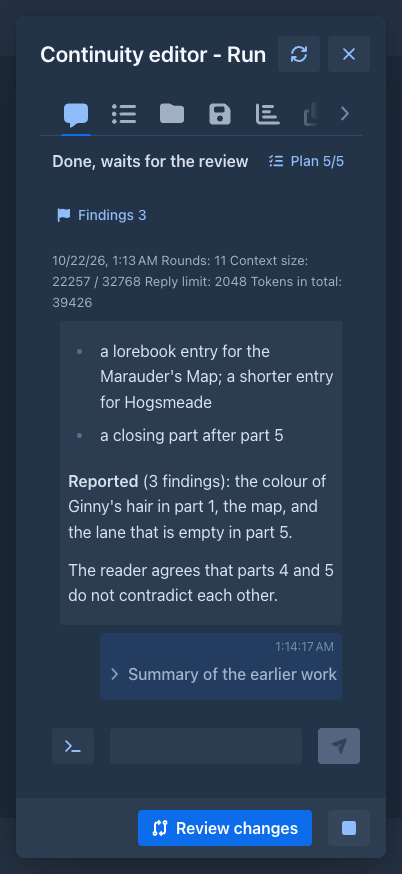
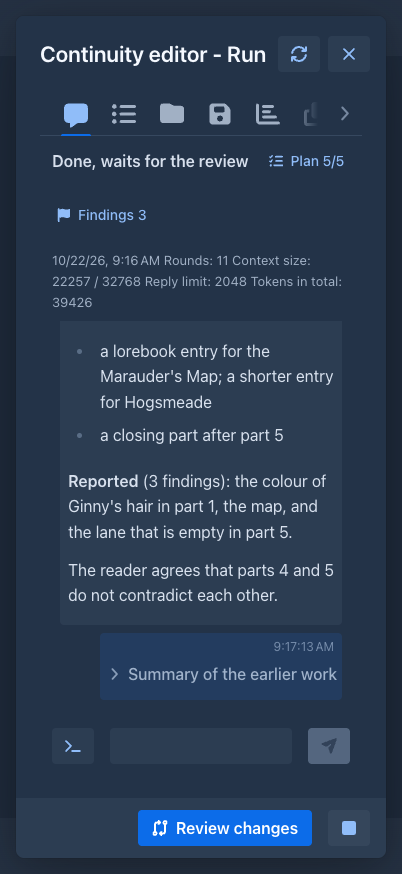
Agents: the approval window opens over the console (BUG-65); on a phone the protocol goes under the model, text areas keep their height, the send button is not cut
Claude-Session: https://claude.ai/code/session_014HCn91QqJ9FSGnprSh847v

Changed region(s): [[0.2687, 0.278, 0.7761, 0.3089], [0.7463, 0.8341, 0.8955, 0.8959]]

diff --git a/marginalia/src/main/frontend/styles/shared-styles.css b/marginalia/src/main/frontend/styles/shared-styles.css
@@ -650,6 +650,13 @@ vaadin-markdown.agent-report td {
     width: 40px;
 }
 
+/* Resizable text area on a phone: the height is the one of the field, the label and the helper text (long on a narrow screen)
+   stay outside of it (ui.widgets.ResizableTextArea sets the two variables) */
+.resizable-text-area-field::part(input-field) {
+    height: var(--resizable-text-area-height, auto);
+    min-height: var(--resizable-text-area-min-height, 0);
+}
+
 /* Resizable text area toggle icon */
 .resizable-text-area-icon {
     cursor: pointer;

diff --git a/marginalia/src/main/java/com/github/enerccio/marginalia/ui/dialogs/agent/AgentConsoleDialog.java b/marginalia/src/main/java/com/github/enerccio/marginalia/ui/dialogs/agent/AgentConsoleDialog.java
@@ -308,6 +308,8 @@ public class AgentConsoleDialog extends Dialog implements LLMInteract {
         sendButton.setTooltipText("Ctrl+Enter");
         if (phone) {
             iconOnly(sendButton, L.LABEL_SEND);
+            // the box takes what is left; the button keeps its size, else the icon is cut
+            sendButton.addClassName(CssStyles.FLEX_SHRINK_0);
         }
         // pictures can go with a message when the model of the agent sees them
         Button attachButton = new Button(loc.getValue(L.LABEL_ATTACH_IMAGE), Solid.IMAGE.create());
@@ -346,7 +348,11 @@ public class AgentConsoleDialog extends Dialog implements LLMInteract {
             commandRow.setVisible(false);
             commandButton = new Button(Solid.TERMINAL.create(), event -> commandRow.setVisible(!commandRow.isVisible()));
             iconOnly(commandButton, L.LABEL_COMMAND);
+            commandButton.addClassName(CssStyles.FLEX_SHRINK_0);
             inputRow = new HorizontalLayout(commandButton, imageUpload, messageField, sendButton);
+            // the box is as wide as what the buttons leave (its own minimal width pushed the send button out of the screen)
+            messageField.setWidth("0");
+            messageField.setMinWidth("0");
         }
         inputRow.setWidthFull();
         inputRow.setPadding(false);
@@ -495,6 +501,12 @@ public class AgentConsoleDialog extends Dialog implements LLMInteract {
         footer.setJustifyContentMode(FlexComponent.JustifyContentMode.END);
         getFooter().add(footer);
 
+        // a command that already waits when the console is opened: its popup opens right after the console, over it
+        addOpenedChangeListener(event -> {
+            if (event.isOpened()) {
+                refreshRun();
+            }
+        });
         refreshRun();
     }
 
@@ -818,7 +830,9 @@ public class AgentConsoleDialog extends Dialog implements LLMInteract {
             approvalDialog.close();
             approvalDialog = null;
         }
-        if (approvalDialog == null && !waiting.isEmpty()) {
+        // not before the console is opened: a popup that is opened first lies under it (both are modal, the later one is on
+        // top), see the listener in create()
+        if (approvalDialog == null && !waiting.isEmpty() && isOpened()) {
             PendingApproval next = waiting.getFirst();
             AgentRun asked = run;
             approvalDialog = new AgentApprovalDialog(agent.getName(), next, approved -> {

diff --git a/marginalia/src/main/java/com/github/enerccio/marginalia/ui/widgets/ResizableTextArea.java b/marginalia/src/main/java/com/github/enerccio/marginalia/ui/widgets/ResizableTextArea.java
@@ -4,6 +4,7 @@ import com.flowingcode.vaadin.addons.fontawesome.FontAwesome.Solid;
 import com.github.enerccio.marginalia.CssStyles;
 import com.github.enerccio.marginalia.loc.L;
 import com.github.enerccio.marginalia.loc.Localization;
+import com.github.enerccio.marginalia.utils.UIUtils;
 import com.vaadin.flow.component.icon.Icon;
 import com.vaadin.flow.component.textfield.TextArea;
 
@@ -60,6 +61,15 @@ public final class ResizableTextArea {
     }
 
     private static void applyMode(TextArea area, String fixedHeight, boolean expanded) {
+        if (UIUtils.isPhone()) {
+            // the helper text of a field takes most of the height of the whole component on a narrow screen: size the field
+            area.addClassName(CssStyles.RESIZABLE_TEXT_AREA_FIELD);
+            area.setHeight(null);
+            area.setMinHeight(null);
+            area.getElement().getStyle().set("--resizable-text-area-height", expanded ? "auto" : fixedHeight);
+            area.getElement().getStyle().set("--resizable-text-area-min-height", expanded ? fixedHeight : "0");
+            return;
+        }
         if (expanded) {
             area.setHeight(null);
             area.setMinHeight(fixedHeight);

diff --git a/marginalia/src/test/java/com/github/enerccio/marginalia/ui/dialogs/agent/AgentConsoleDialogTest.java b/marginalia/src/test/java/com/github/enerccio/marginalia/ui/dialogs/agent/AgentConsoleDialogTest.java
@@ -584,6 +584,21 @@ class AgentConsoleDialogTest extends AgentTestBase {
     }
 
     @Test
+    void thePopupOfACommandThatWaitedBeforeTheConsoleWasOpenedComesAfterTheConsoleOpens() throws Exception {
+        waitingCommand(startedRun());
+        AgentConsoleDialog dialog = new AgentConsoleDialog(agent, false);
+        dialog.create();
+
+        // both are modal and the one opened later is on top: the popup must not be opened before the console
+        assertThat(dialog.getApprovalDialog()).isNull();
+
+        dialog.open();
+
+        assertThat(dialog.getApprovalDialog()).isNotNull();
+        assertThat(dialog.getApprovalDialog().isOpened()).isTrue();
+    }
+
+    @Test
     void theUserCanDeny() throws Exception {
         CompletableFuture<Boolean> decision = waitingCommand(startedRun());
         AgentConsoleDialog dialog = console();

diff --git a/marginalia/src/main/java/com/github/enerccio/marginalia/ui/widgets/ModelProtocolPicker.java b/marginalia/src/main/java/com/github/enerccio/marginalia/ui/widgets/ModelProtocolPicker.java
@@ -62,6 +62,14 @@ public class ModelProtocolPicker extends HorizontalLayout {
 
         setAlignItems(FlexComponent.Alignment.BASELINE);
         setPadding(false);
+        if (UIUtils.isPhone()) {
+            // two boxes of 260 pixels do not fit next to each other: the protocol goes under the model
+            setWrap(true);
+            setSpacing(false);
+            setWidthFull();
+            aiCombo.setWidthFull();
+            protocolCombo.setWidthFull();
+        }
         add(aiCombo, protocolCombo);
     }
 

diff --git a/marginalia/src/main/java/com/github/enerccio/marginalia/ui/dialogs/agent/AgentStopDialog.java b/marginalia/src/main/java/com/github/enerccio/marginalia/ui/dialogs/agent/AgentStopDialog.java
@@ -55,6 +55,7 @@ public class AgentStopDialog extends Dialog implements LLMInteract {
         discardButton.setThemeName("error");
         HorizontalLayout footer = new HorizontalLayout(cancelButton, discardButton, keepButton);
         footer.setWidthFull();
+        footer.setWrap(true);
         footer.setJustifyContentMode(FlexComponent.JustifyContentMode.END);
         getFooter().add(footer);
     }

diff --git a/marginalia/src/main/java/com/github/enerccio/marginalia/ui/dialogs/agent/AgentApprovalDialog.java b/marginalia/src/main/java/com/github/enerccio/marginalia/ui/dialogs/agent/AgentApprovalDialog.java
@@ -88,6 +88,7 @@ public class AgentApprovalDialog extends Dialog implements LLMInteract {
         approveButton.setThemeName("primary");
         HorizontalLayout footer = new HorizontalLayout(denyButton, approveButton);
         footer.setWidthFull();
+        footer.setWrap(true);
         footer.setJustifyContentMode(FlexComponent.JustifyContentMode.END);
         getFooter().add(footer);
     }

diff --git a/marginalia/src/main/java/com/github/enerccio/marginalia/ui/dialogs/agent/AgentResumeDialog.java b/marginalia/src/main/java/com/github/enerccio/marginalia/ui/dialogs/agent/AgentResumeDialog.java
@@ -63,6 +63,7 @@ public class AgentResumeDialog extends Dialog implements LLMInteract {
         resumeButton.setThemeName("primary");
         HorizontalLayout footer = new HorizontalLayout(cancelButton, resumeButton);
         footer.setWidthFull();
+        footer.setWrap(true);
         footer.setJustifyContentMode(FlexComponent.JustifyContentMode.END);
         getFooter().add(footer);
     }

diff --git a/marginalia/src/main/java/com/github/enerccio/marginalia/CssStyles.java b/marginalia/src/main/java/com/github/enerccio/marginalia/CssStyles.java
@@ -104,6 +104,7 @@ public final class CssStyles {
 
     // --- Resizable text area toggle icon ---
     public static final String RESIZABLE_TEXT_AREA_ICON = "resizable-text-area-icon";
+    public static final String RESIZABLE_TEXT_AREA_FIELD = "resizable-text-area-field";
 
     // --- Phone manuscript dialog ---
     public static final String PHONE_DIALOG = "phone-dialog";

diff --git a/TODO.BUGS.md b/TODO.BUGS.md
@@ -1110,7 +1110,7 @@ old value is lost if the dialog is saved without noticing.
 
 **Expected:** the saved model stays selected; the list only becomes available.
 
-## BUG-65 - The window of the approval of an agent lies under the console that was opened while the agent already waited (medium)
+~~## BUG-65 - The window of the approval of an agent lies under the console that was opened while the agent already waited (medium)~~
 
 **Where:** `ui/dialogs/agent/AgentConsoleDialog.java`, `showApproval()`. Found while taking the screenshots.
 
@@ -1127,3 +1127,5 @@ opens the console while the agent still works, which works).
 
 **Expected:** the window of the approval is on top of the console. **Actual:** only the console is seen; the buttons of the console
 are disabled and there is no way to decide (the approval dialog can not be closed with Esc or a click outside either).
+
+**Fixed:** `showApproval()` opens the window only when the console is open (`isOpened()`), and an opened-change listener of the console asks again when it opens, so the window is opened after the console and lies over it. `AgentConsoleDialogTest` has the case.

diff --git a/CHANGELOG.MD b/CHANGELOG.MD
@@ -74,6 +74,7 @@ An agent is an LLM that works on one book on its own (or with you in a console) 
 
 ### Fixed
 
+- **Text areas on a phone** (`ResizableTextArea`) are as high as set again: the helper text under a field, long on a narrow screen, took most of the height, so a long prompt showed one or two lines.
 - **A story of hundreds of parts froze the browser when it opened** (see the lazy parts and the lazy popovers above).
 - **A book created with Add Book** is remembered by the workspace autosave like a book opened from the list.
 - **Lorebook VCS:** switching, adding or deleting a revision of an entry no longer closes the opened entries.
